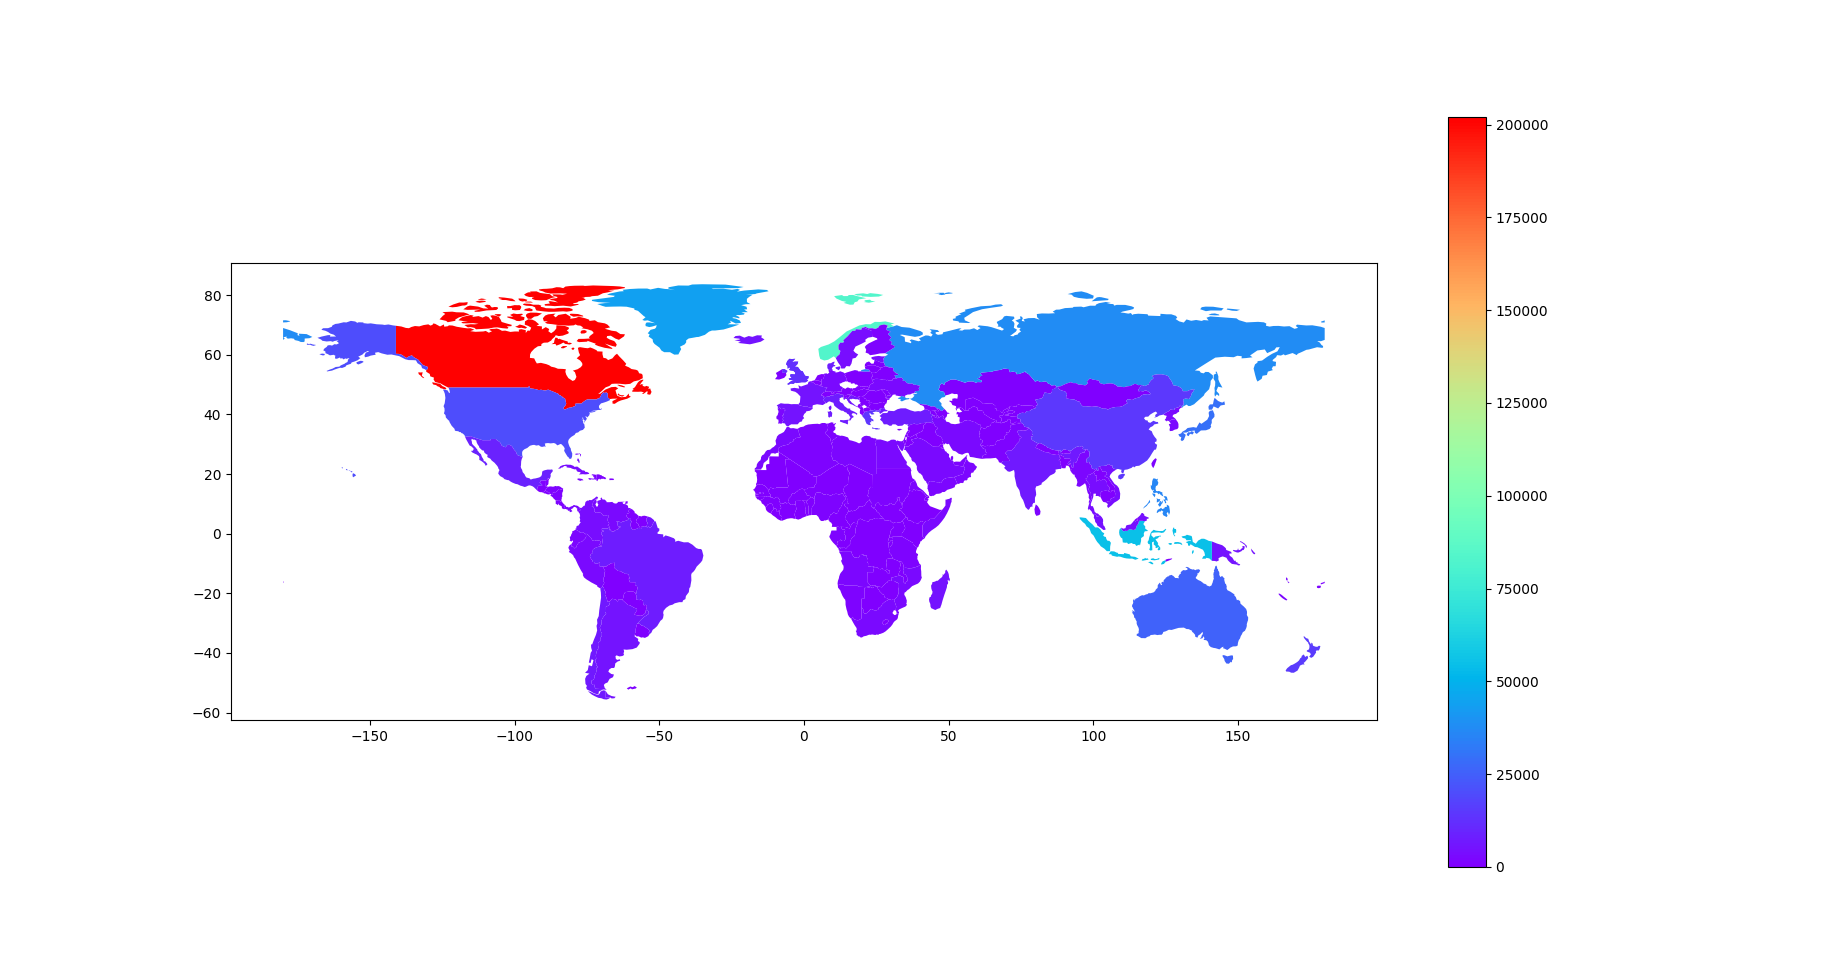
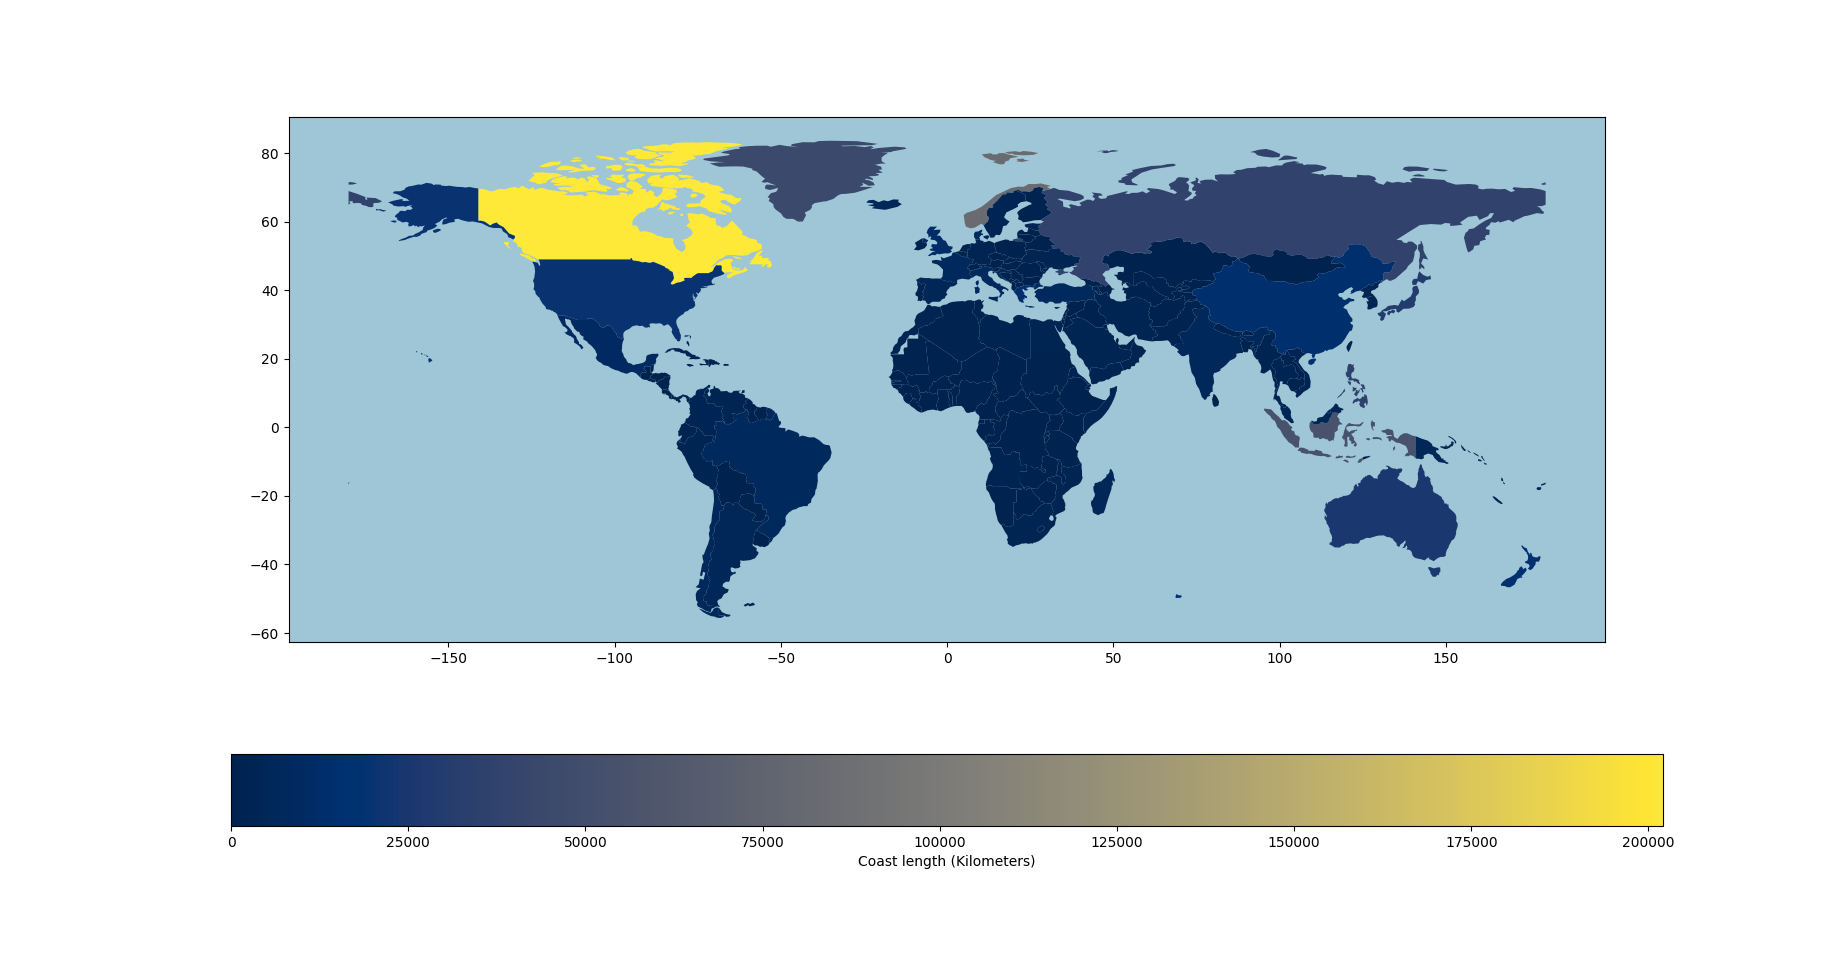
added some valueable graphs

diff --git a/data_science_main_code.py b/data_science_main_code.py
@@ -9,6 +9,8 @@ from numpy.core.fromnumeric import mean, shape
 from pandas.io.parsers import read_csv
 from scipy.sparse.construct import rand
 from sklearn.utils import shuffle
+from sklearn.metrics import roc_auc_score
+from sklearn.metrics import roc_curve
 warnings.simplefilter(action='ignore', category=FutureWarning)
 
 import random
@@ -585,7 +587,21 @@ def logistic_regression(df, feature_cols):
     print("Recall:",metrics.recall_score(y_test, y_pred))
     print(valid_invalid_matrix)
     
+    logit_roc_auc = roc_auc_score(y_test, logreg.predict(X_test))
+    fpr, tpr, thresholds = roc_curve(y_test, logreg.predict_proba(X_test)[:,1])
+    plt.figure()
+    ax = plt.gca()
+    ax.set_facecolor('xkcd:sky blue')
+    plt.plot(fpr, tpr, label='Logistic Regression (area = %0.2f)' % logit_roc_auc)
+    plt.plot([0, 1], [0, 1],'r--')
+    plt.xlim([0.0, 1.0])
+    plt.ylim([0.0, 1.05])
+    plt.xlabel('False Positive Rate')
+    plt.ylabel('True Positive Rate')
+    plt.title('Receiver operating characteristic')
+    plt.legend(loc="lower right")
     plt.show()
+
 
 #code: 
 #createDatabases() # part 1.a
@@ -620,11 +636,11 @@ df = pd.read_csv("DataFrames.csv")
 
 #df["sum_of_army"] = df.apply(lambda row: float(row.strength_A) + float(row.strength_B), axis = 1)
 #plot_world_special_treatment(df[["losser_list", "sum_of_army"]], "losser_list", "sum_of_army")
-
+# plot_world(country_df,"coast_length","cividis")
 #plot_world_special_treatment(df[["location", "sum_of_deaths"]], "location", "sum_of_deaths")
 #df.to_csv('DataFrame.csv')
 #plt.show()
 #X_total = build_X_total(country_df)
-X_total = pd.read_csv("ML-data/X_total.csv")
-X_total = clean_X(X_total)
-logistic_regression(X_total,["coast_length","border_length","sea_level","number_of_borders","avg_temp", "location_coast_length","location_border_length","location_sea_level","location_number_of_borders","location_avg_temp"])
+# X_total = pd.read_csv("ML-data/X_total.csv")
+# X_total = clean_X(X_total)
+# logistic_regression(X_total,["coast_length","border_length","sea_level","number_of_borders","avg_temp", "location_coast_length","location_border_length","location_sea_level","location_number_of_borders","location_avg_temp"])

diff --git a/python_scripts/geopandas_plot.py b/python_scripts/geopandas_plot.py
@@ -12,7 +12,7 @@ def plot_world(df, column, cmapR="rainbow"):
     df_new = df.rename(columns={'country': 'name'}, copy=True)
     combined = world.merge(df_new,on="name")
     graph = combined.plot(column=column ,legend=True, cmap=cmapR,
-     legend_kwds={"label" : "Battles by country", "orientation" : "horizontal"})
+     legend_kwds={"label" : "Coast length (Kilometers)", "orientation" : "horizontal"})
     graph.set_facecolor('#00699460')
     plt.show()
 
